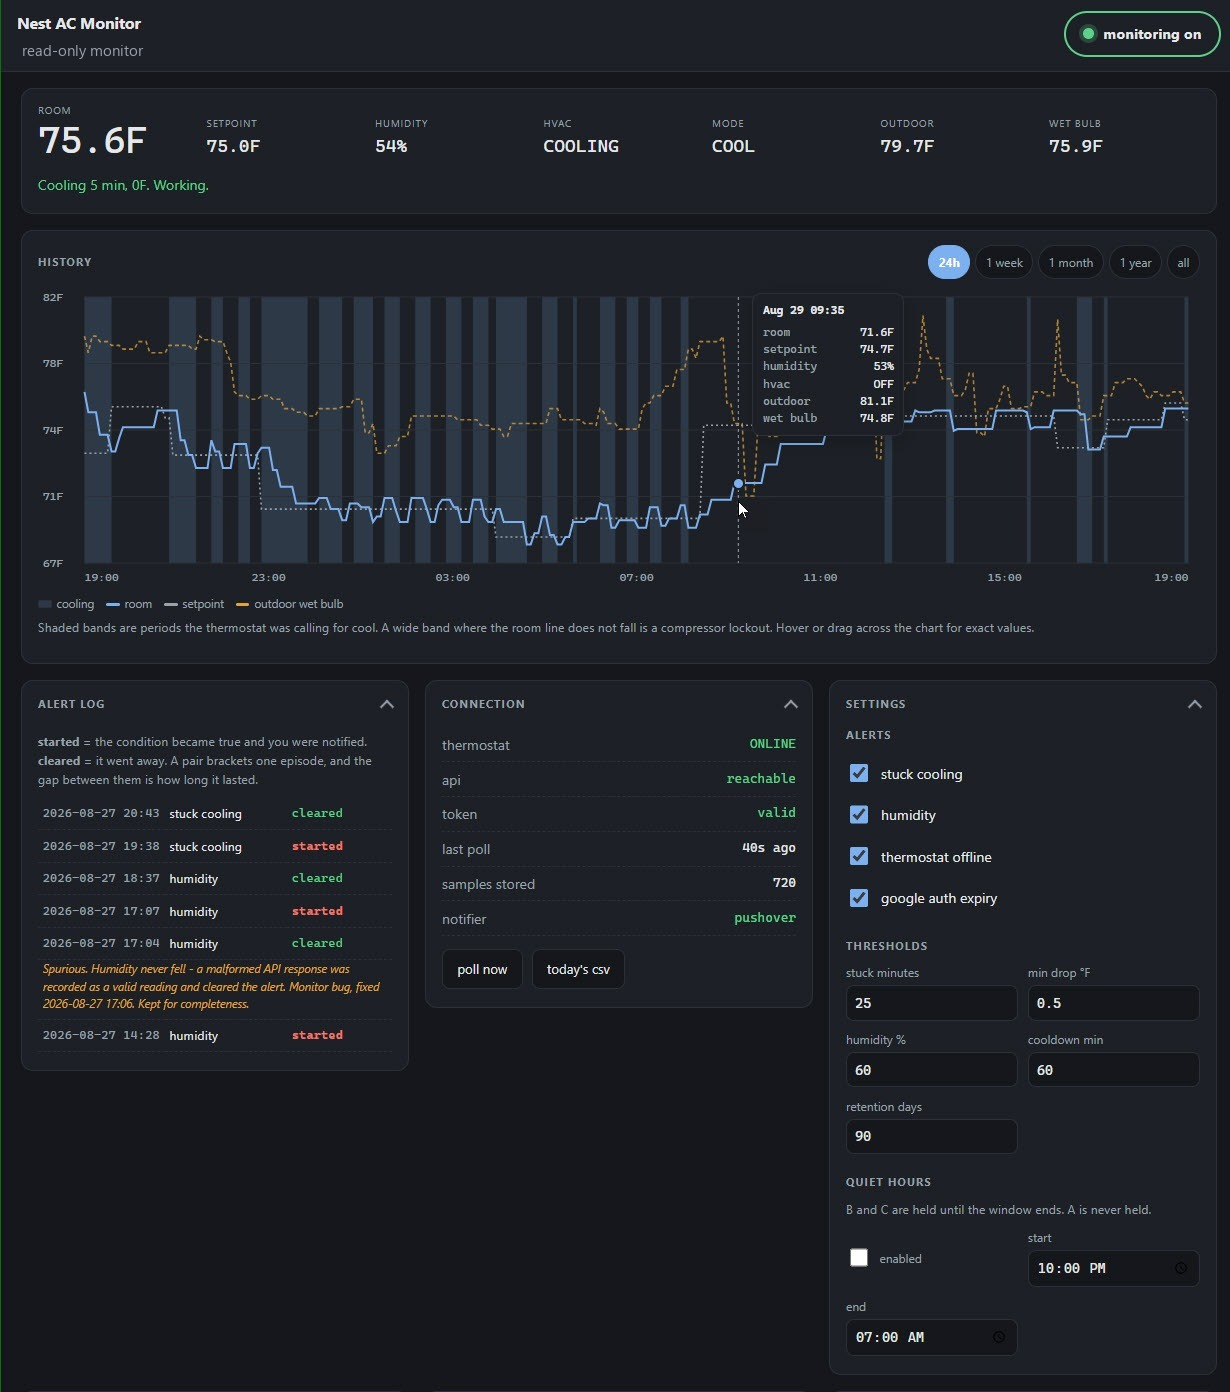
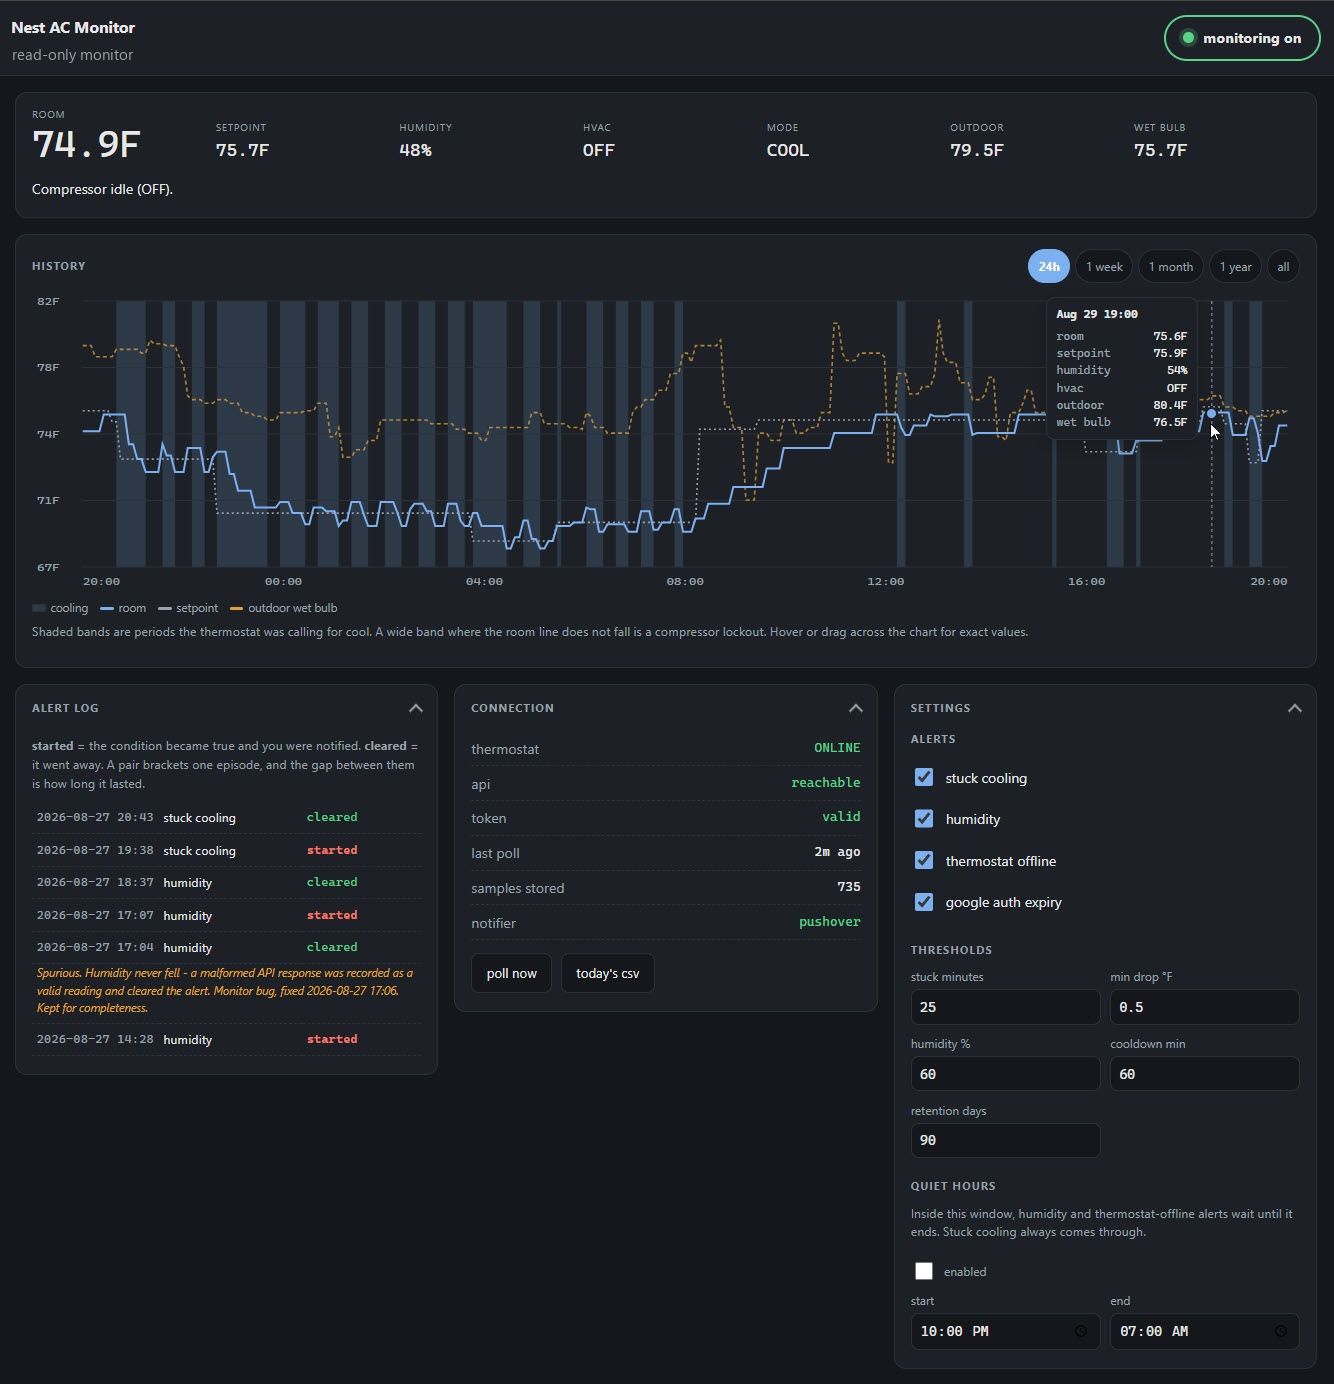
State the Nest requirement up front
The README and the assignment both explained what this does before saying what
it needs. Anyone without a Google Nest thermostat could read most of the way
through before discovering none of it applies to them.

Both now lead with the prerequisite: a Nest migrated to a Google Account rather
than a legacy Nest account, a personal gmail address because Workspace accounts
cannot register for Device Access at all, and a phone. The README also says
plainly who this is and is not for, and notes that the detection logic would
port to another thermostat even though nothing here works with one as shipped.

Repo description updated to lead with Nest, and the dashboard screenshot
refreshed.

Claude-Session: https://claude.ai/code/session_01Bzcce4d757REgmCv5XroZs

diff --git a/README.md b/README.md
@@ -11,6 +11,30 @@ It runs on Cloudflare's free tier, polls your Nest every five minutes, pushes an
 alert to your phone, and keeps a timestamped record you can hand to a
 technician. That record turned out to be the more useful half.
 
+---
+
+## Before you read further: you need a Google Nest thermostat
+
+This reads your thermostat through Google's Smart Device Management API, so
+there is a hard prerequisite. **No Nest, no monitor.**
+
+**You need all three:**
+
+| | |
+|---|---|
+| **A Google Nest thermostat** | Migrated to a Google Account rather than a legacy Nest account. Free way to check: if the thermostat appears in the **Google Home** app, you are fine. |
+| **A personal `@gmail.com` account** | Google **Workspace** accounts cannot register for Device Access at all. The console will not load and the OAuth flow cannot complete. |
+| **A phone you want alerts on** | Android or iOS. |
+
+**This is for you if** you have a Nest, you have air conditioning that
+occasionally stops cooling without telling you, and you would rather find out in
+five minutes than five hours.
+
+**This is not for you if** you have any other thermostat. The detection logic in
+`src/detect.js` is device-agnostic and would port to anything that reports an
+ambient temperature and a commanded heating/cooling state, but nothing here
+works with another brand as shipped.
+
 ![The dashboard](screenshots/nest-ac-app-UI.jpg)
 
 *The 24-hour view. Shaded bands are periods the thermostat was calling for cool.

diff --git a/ASSIGNMENT.md b/ASSIGNMENT.md
@@ -10,6 +10,25 @@ failed at 2 AM.
 
 ---
 
+## Prerequisite: a Google Nest thermostat
+
+This design reads the thermostat through Google's Smart Device Management API.
+Before starting, confirm the user has all three:
+
+- **A Google Nest thermostat**, migrated to a Google Account rather than a
+  legacy Nest account. Free check: does it appear in the **Google Home** app?
+- **A personal `@gmail.com` account.** Google Workspace accounts cannot register
+  for Device Access at all, and this is a hard block rather than a warning.
+  Confirm it before the user spends the non-refundable $5.
+- **A phone** to receive the alerts on.
+
+Without a Nest none of this applies. The detection logic in §6 is
+device-agnostic and would port to anything reporting an ambient temperature and
+a commanded heating/cooling state, but everything from §4 onward assumes the
+Google API.
+
+---
+
 ## 1. The problem
 
 An apartment air conditioner — typically a **water-source heat pump** on a
